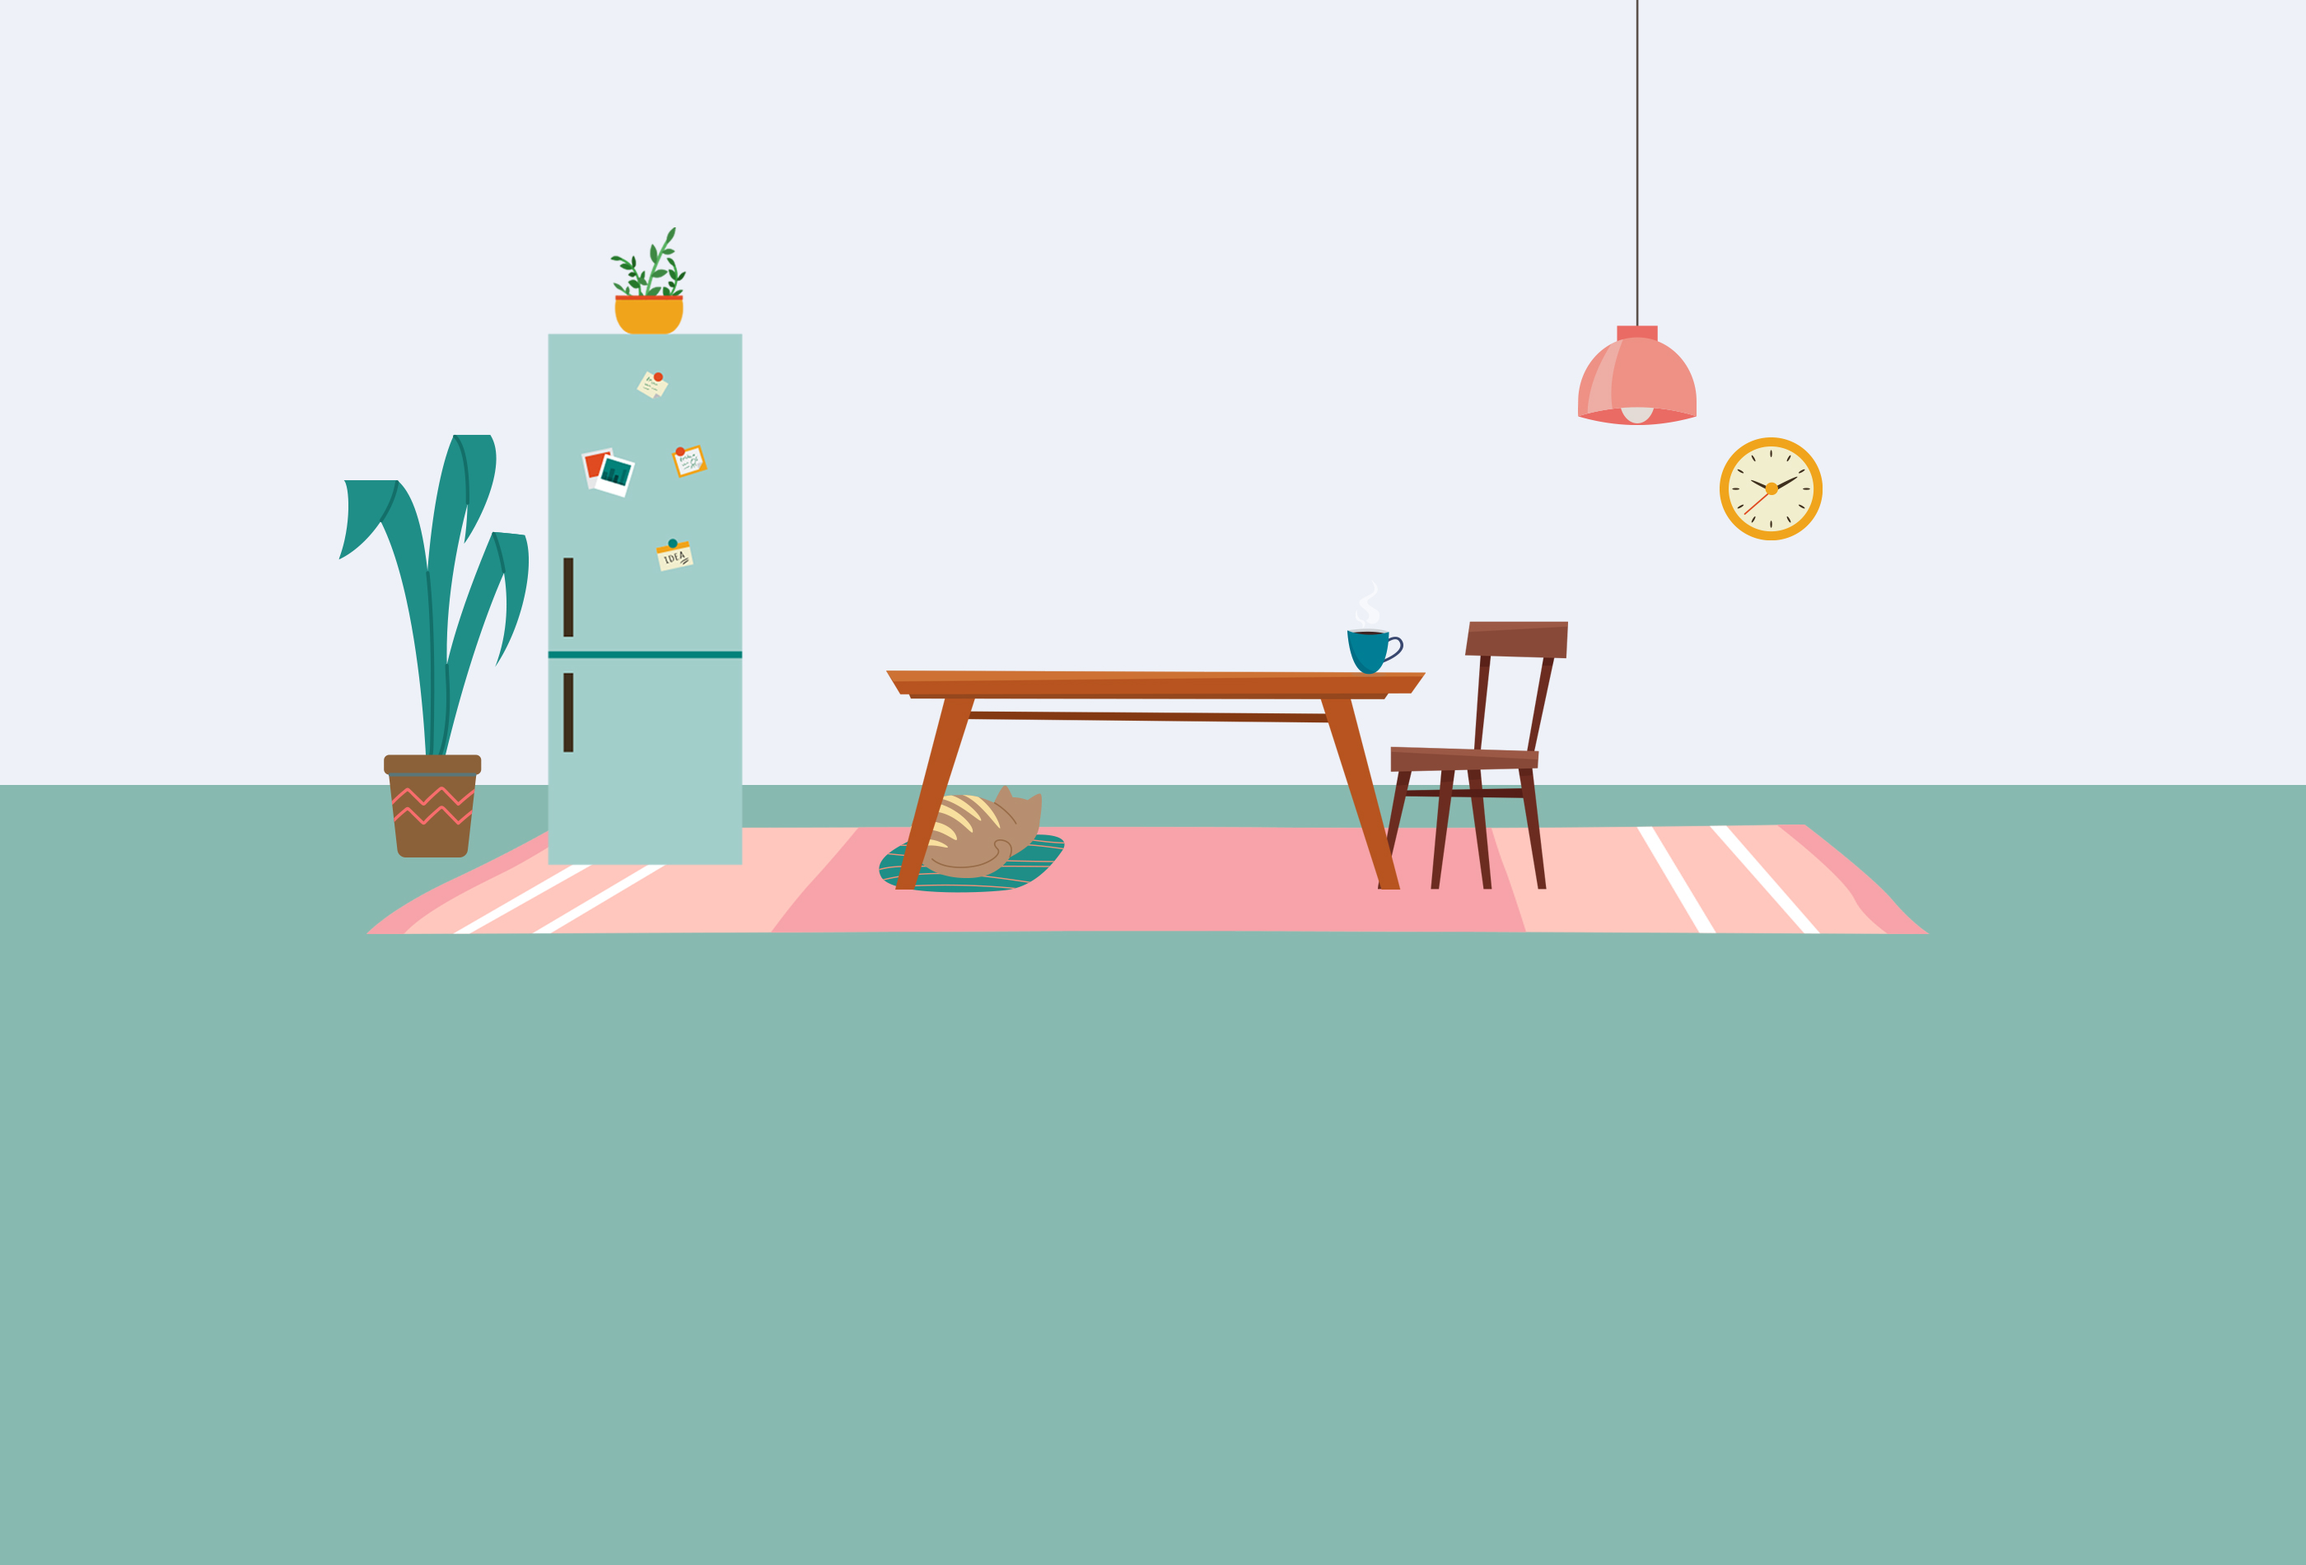
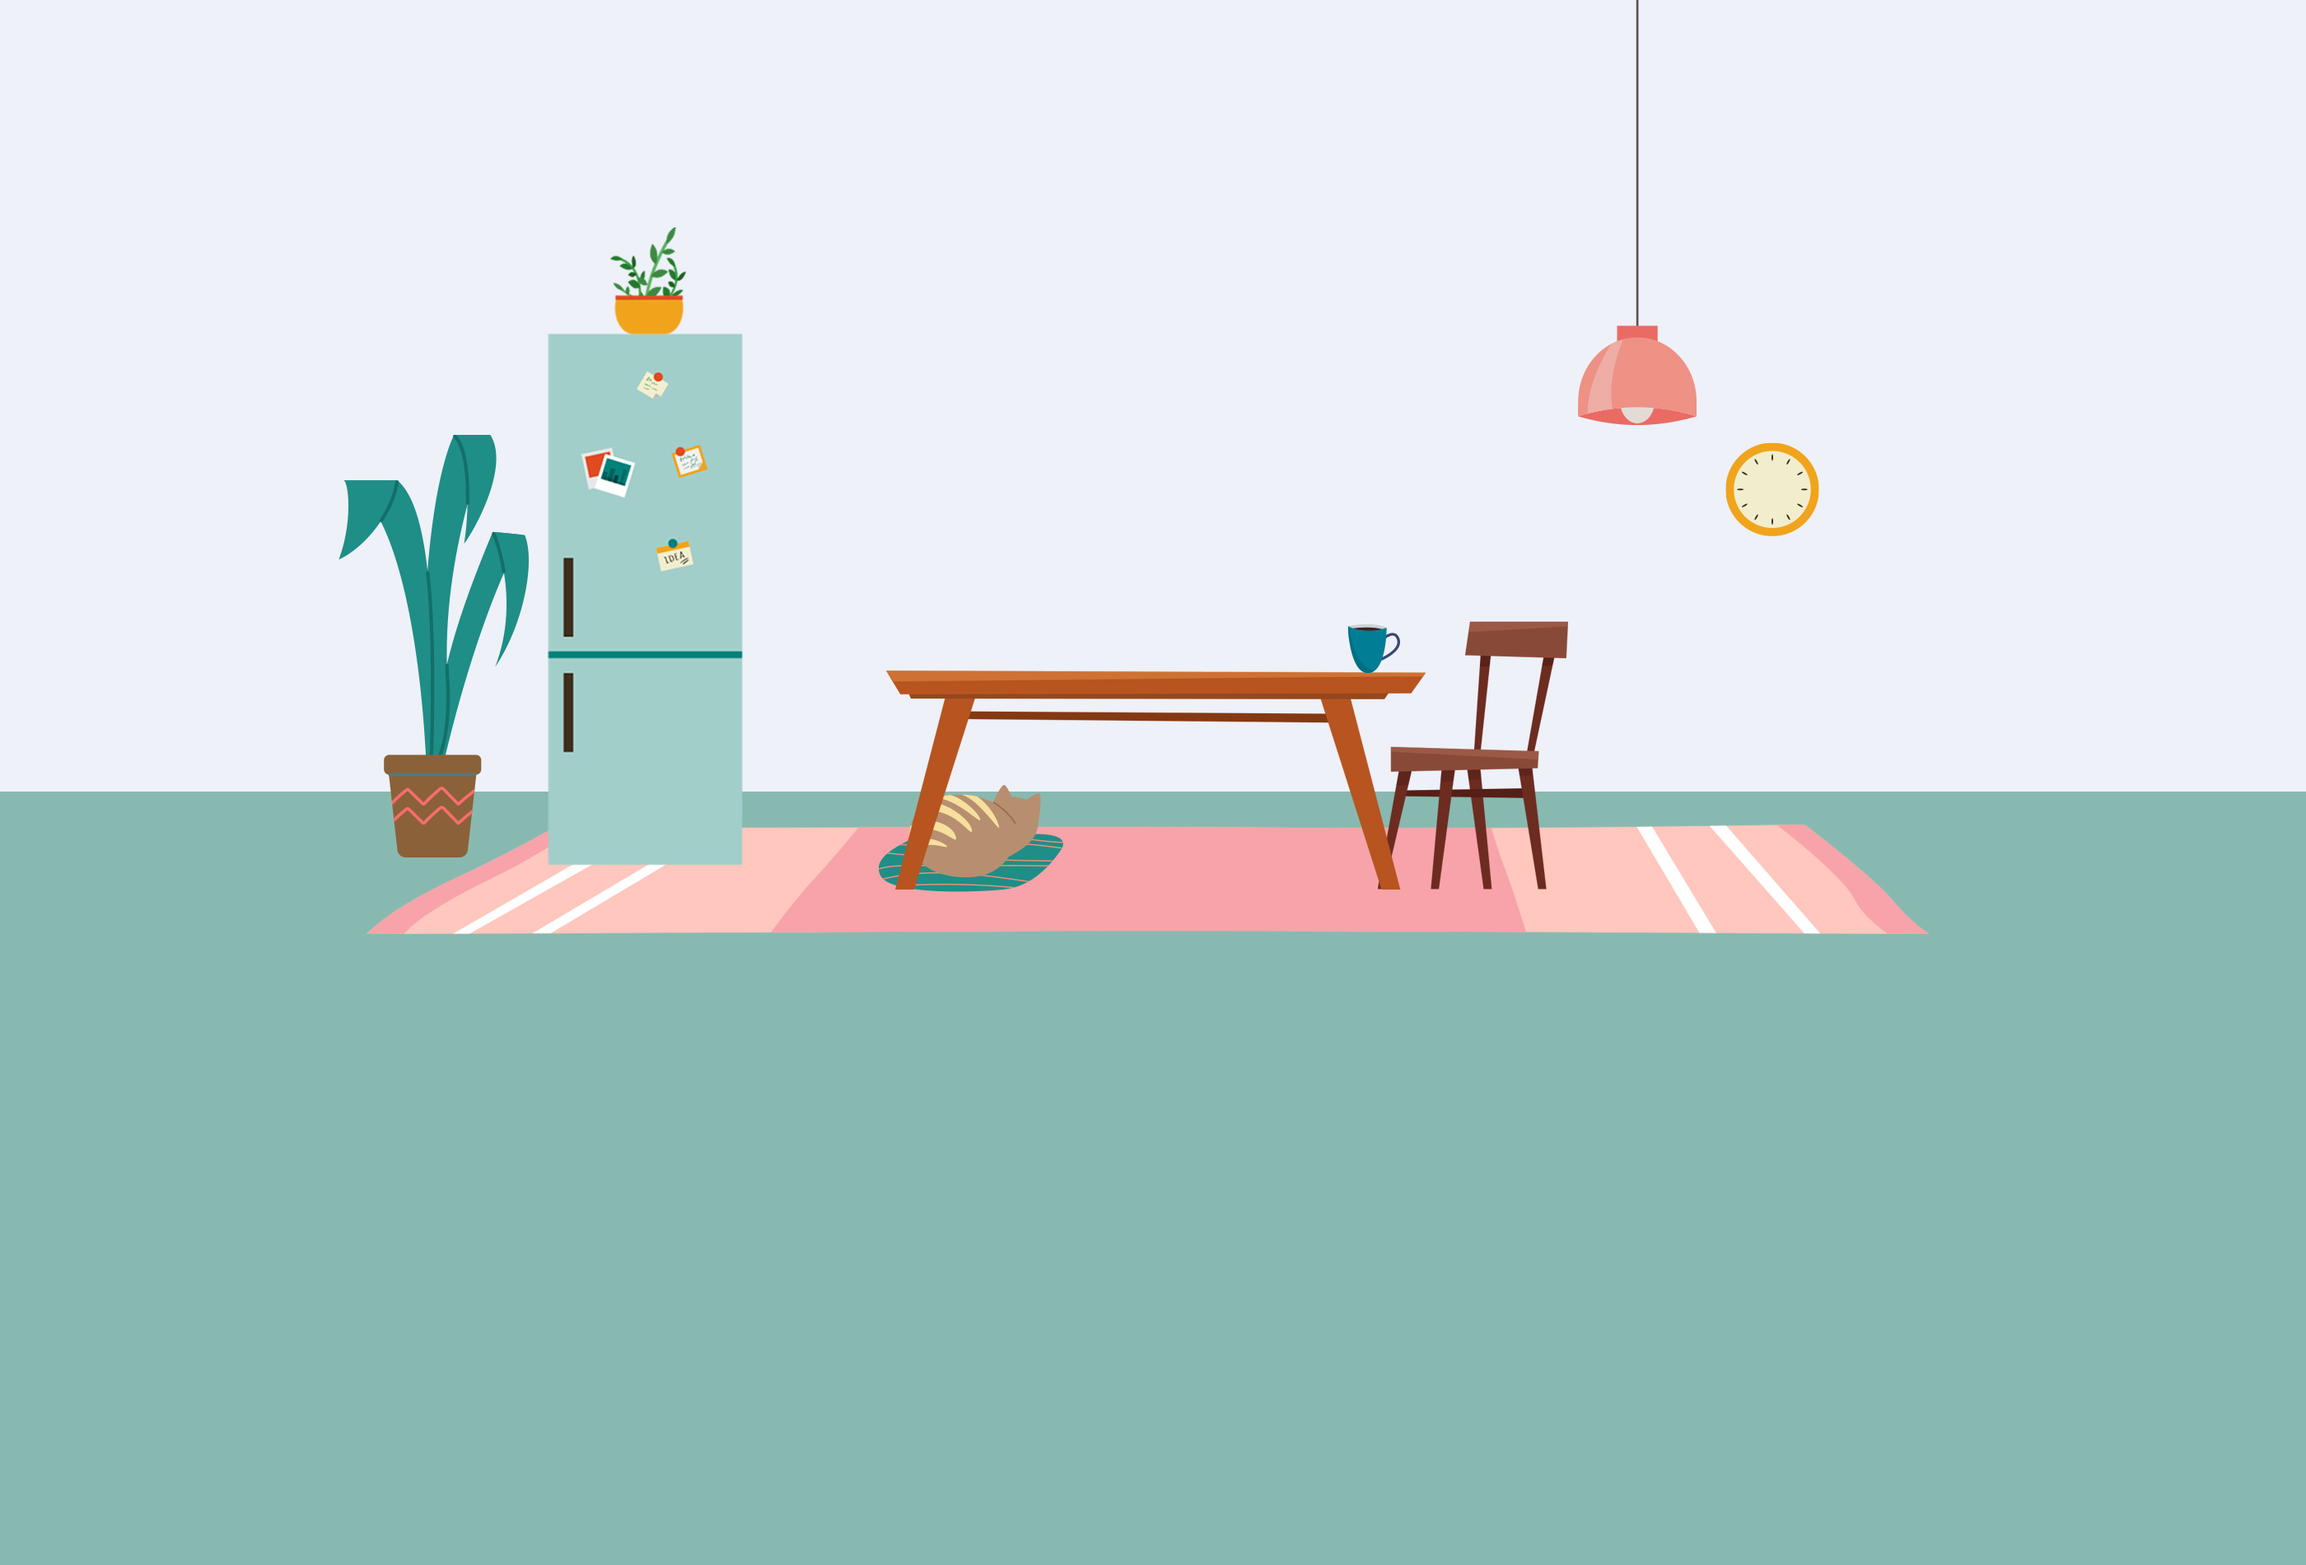
build\=

diff --git a/src/components/App/App.js b/src/components/App/App.js
@@ -3,6 +3,8 @@ import TitleBlock from "../TitleBlock";
 import Item from "../Item";
 import Bottom from "../Bottom";
 import Menu from "../Menu";
+import Tail from "../Tail/Tail";
+import Steam from "../Steam/steam";
 import Summary from "../Summary";
 import { gsap } from "gsap";
 function App({ quiz }) {
@@ -24,6 +26,8 @@ function App({ quiz }) {
             </Menu>
           )}
         </div>
+        <Tail />
+        <Steam />
       </div>
     </main>
   );

diff --git a/src/sass/main.scss b/src/sass/main.scss
@@ -4,6 +4,7 @@ $b-radius:  5px;
 @import "buttons";
 @import "blocks";
 @import "fonts";
+@import "animated";
 
 img {
   width: 100%;

diff --git a/src/sass/_blocks.scss b/src/sass/_blocks.scss
@@ -8,7 +8,7 @@
 
 
 .window{
-
+z-index: 2;
       background-color: white;
     color: $blue-dark;
     padding: 10px 20px;
